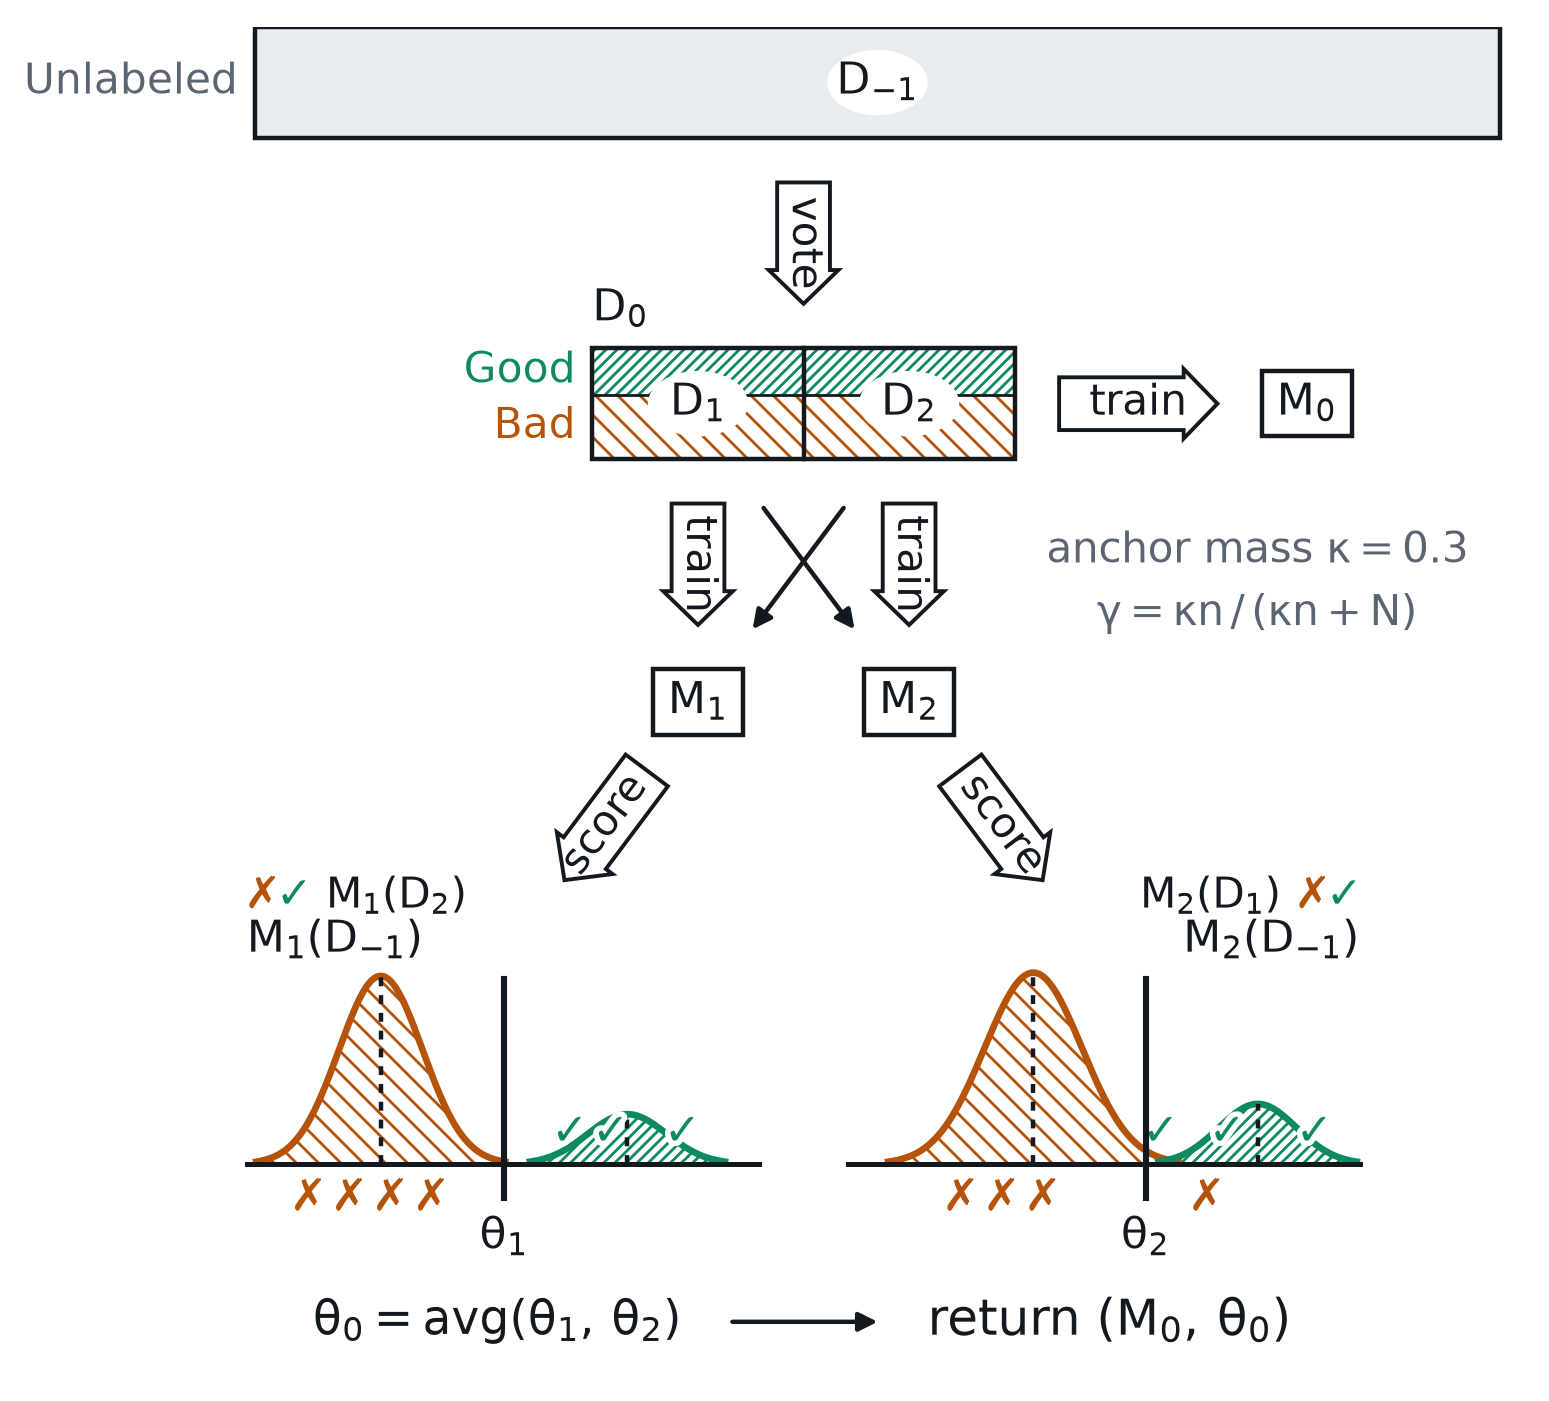
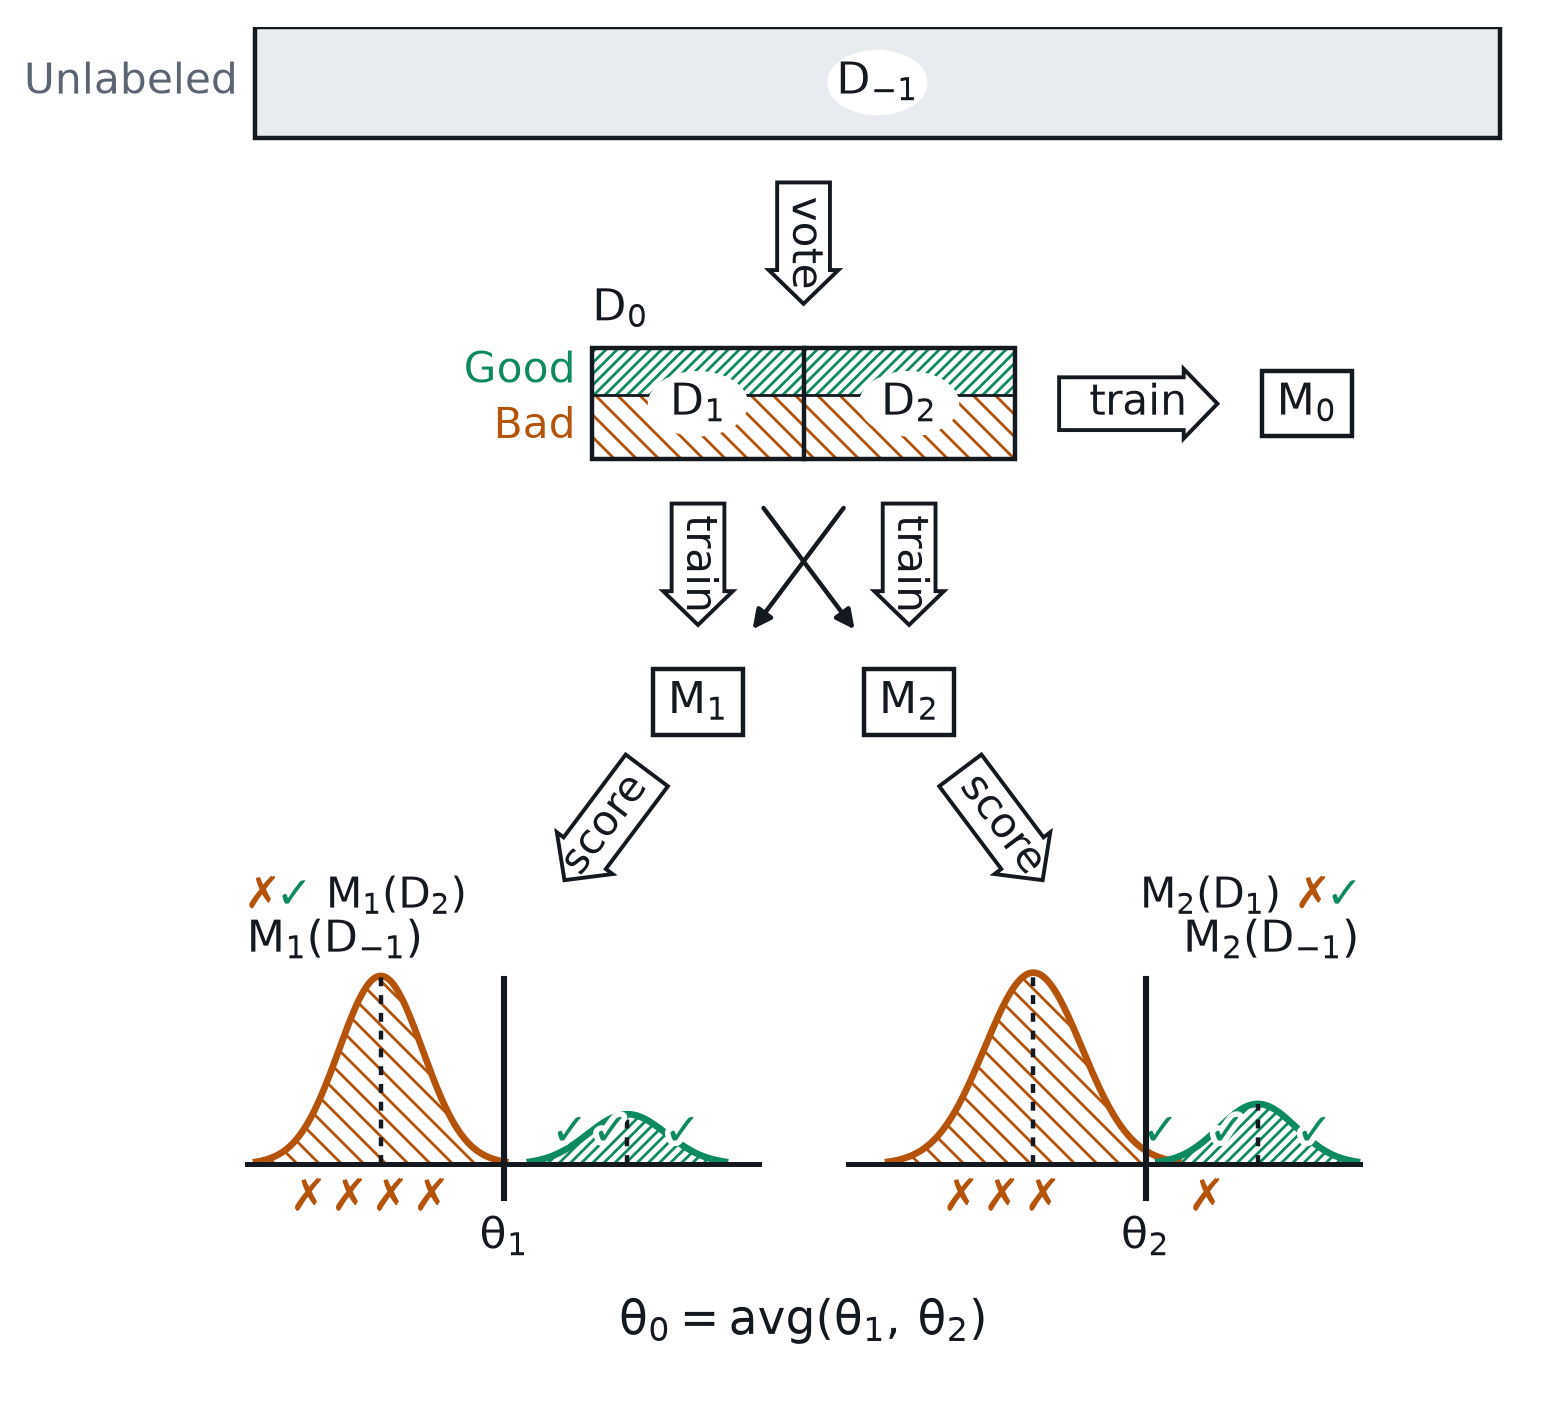
slides: strip Fig D to the mechanism — no anchor-mass note, no return line
Both removals are the same call: the figure draws the mechanism, and the
numbers that argue about it belong on the slide, not in the drawing.

The anchor mass and the share the votes end up holding are the quantity
that replaces the blend's hand-tuned ramp — a claim worth a slide of its
own. What this figure has to show is that the votes are in the fit at all,
which it shows by drawing them there.

The closing row loses its arrow and its return. Fig D's parents each close
on a return because each is a whole algorithm; this one is a beat in the
middle of an argument, and the quantile figure that follows takes this very
average apart. Ending on the thing about to be corrected is the point.

Claude-Session: https://claude.ai/code/session_01WhdBTujUnk9J1yppKwWh7Y

diff --git a/slides/figs/src/make-calib-figs.py b/slides/figs/src/make-calib-figs.py
@@ -1259,7 +1259,9 @@ def xsemi_flow_fig() -> None:
     * **The two cuts are ticked on one baseline**, as the blend's three were,
       and they visibly disagree. Averaging them is the closing line, and it is
       a *strawman*: the quantile figure that follows shows what a cardinal
-      average of two models' raw scores actually does.
+      average of two models' raw scores actually does. That is also why this
+      figure does not close on a `return`, as its parents do — it ends on the
+      thing the next figure corrects.
 
     One honesty note for the speaker, recorded here because the figure cannot
     say it: production never shipped this cardinal average. Quantile transfer
@@ -1521,19 +1523,12 @@ def _xsemi_flow_stage(stage: int, folds: list) -> plt.Figure:
                 f"M_{i + 1}(D_{2 - i})",
                 mirrored=i == 1,
             )
-        # The weight the votes carry, in the space the collapsed rival branch
-        # left behind: what the blend hand-tuned as a ramp on the vote count is
-        # here a consequence of one number, and κ is that number.
-        ax.text(
-            (block_x0 + block_w + canvas_w - 0.2) / 2,
-            my + (block_y0 - my) / 2,
-            "anchor mass " + _sub(r"\kappa = 0.3") + "\n" + _sub(r"\gamma = \kappa n\, /\, (\kappa n + N)"),
-            ha="center",
-            va="center",
-            fontsize=15,
-            color=SOFT,
-            linespacing=1.6,
-        )
+        # How much weight the votes carry — κ, and the share γ = κn/(κn+N)
+        # they end up holding — is deliberately *not* annotated here. It is
+        # the number that replaces the blend's hand-tuned ramp, which makes it
+        # a claim to argue on a slide of its own rather than a quantity the
+        # drawing needs: what this figure has to show is that the votes are in
+        # the fit at all.
 
     # ── stage 5: cut each fold at the midpoint of its two fitted means ────────
     if stage >= 5:
@@ -1551,9 +1546,15 @@ def _xsemi_flow_stage(stage: int, folds: list) -> plt.Figure:
             )
 
     # ── stage 6: average the two cuts ─────────────────────────────────────────
+    # One line, and no `return (M₀, θ₀)` after it. Its parents close on a
+    # return because they are each a whole algorithm; this one is a beat in the
+    # middle of an argument, and the quantile figure that follows takes this
+    # very average apart. Ending on the thing about to be corrected is the
+    # point, and an arrow onward to a return would spend the slide's last
+    # words settling something the next slide unsettles.
     if stage >= 6:
-        avg = ax.text(
-            bx - 2.9,
+        ax.text(
+            bx,
             conclusion_y,
             _sub(r"\theta_0 = avg(\theta_1,\, \theta_2)"),
             ha="center",
@@ -1561,20 +1562,6 @@ def _xsemi_flow_stage(stage: int, folds: list) -> plt.Figure:
             fontsize=CONCLUSION_PT,
             color=INK,
         )
-        ret = ax.text(
-            bx + 2.9,
-            conclusion_y,
-            "return " + _sub(r"(M_0,\, \theta_0)"),
-            ha="center",
-            va="center",
-            fontsize=18,
-            color=INK,
-        )
-        fig.canvas.draw()
-        to_units = ax.transData.inverted()
-        a_box = avg.get_window_extent().transformed(to_units)
-        r_box = ret.get_window_extent().transformed(to_units)
-        arrow((a_box.x1 + OBJECT_GAP, conclusion_y), (r_box.x0 - OBJECT_GAP, conclusion_y))
 
     return fig
 
